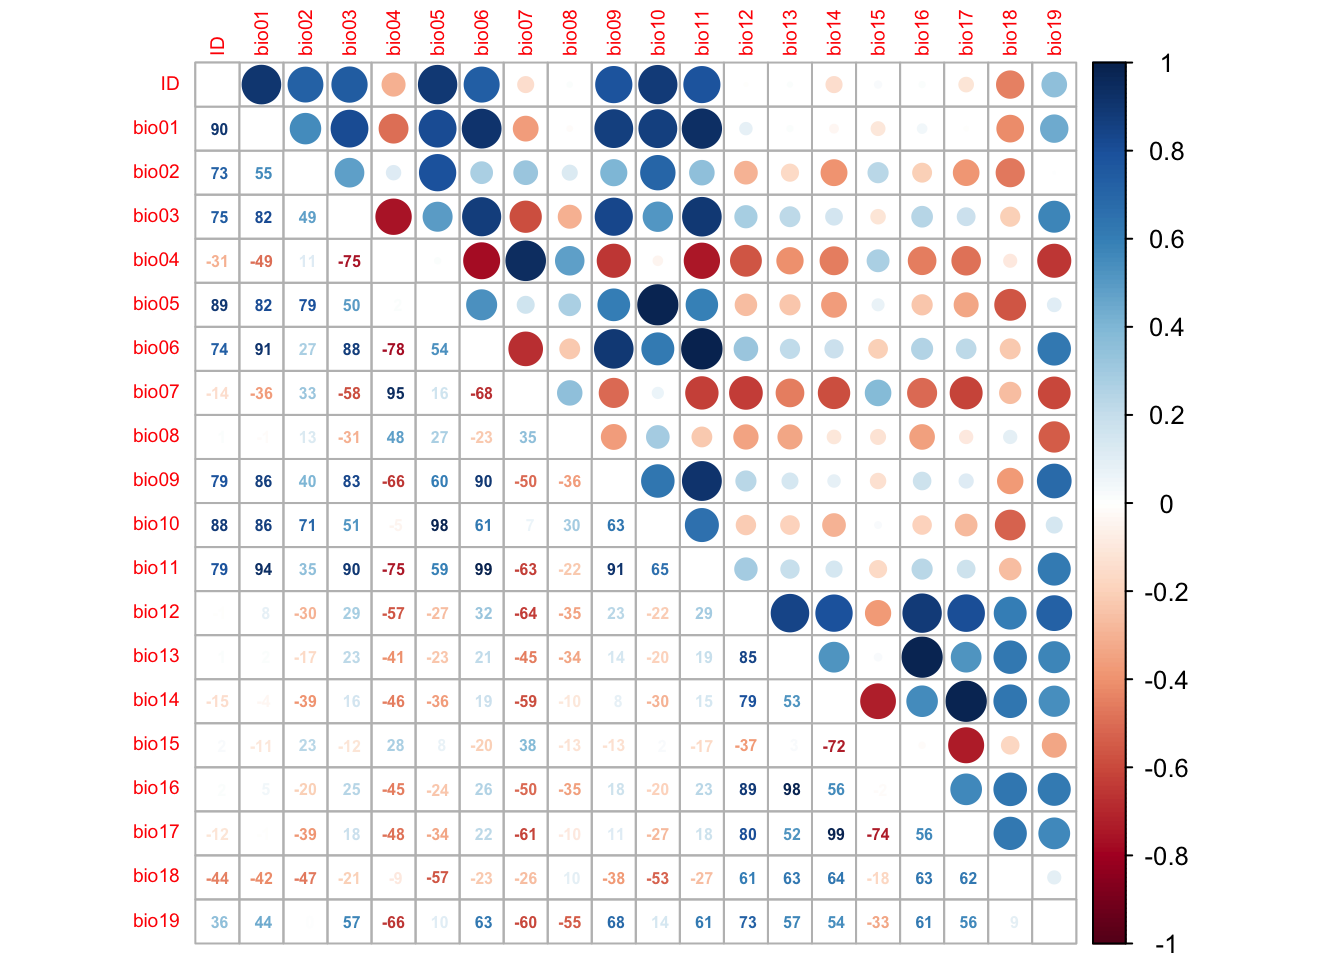
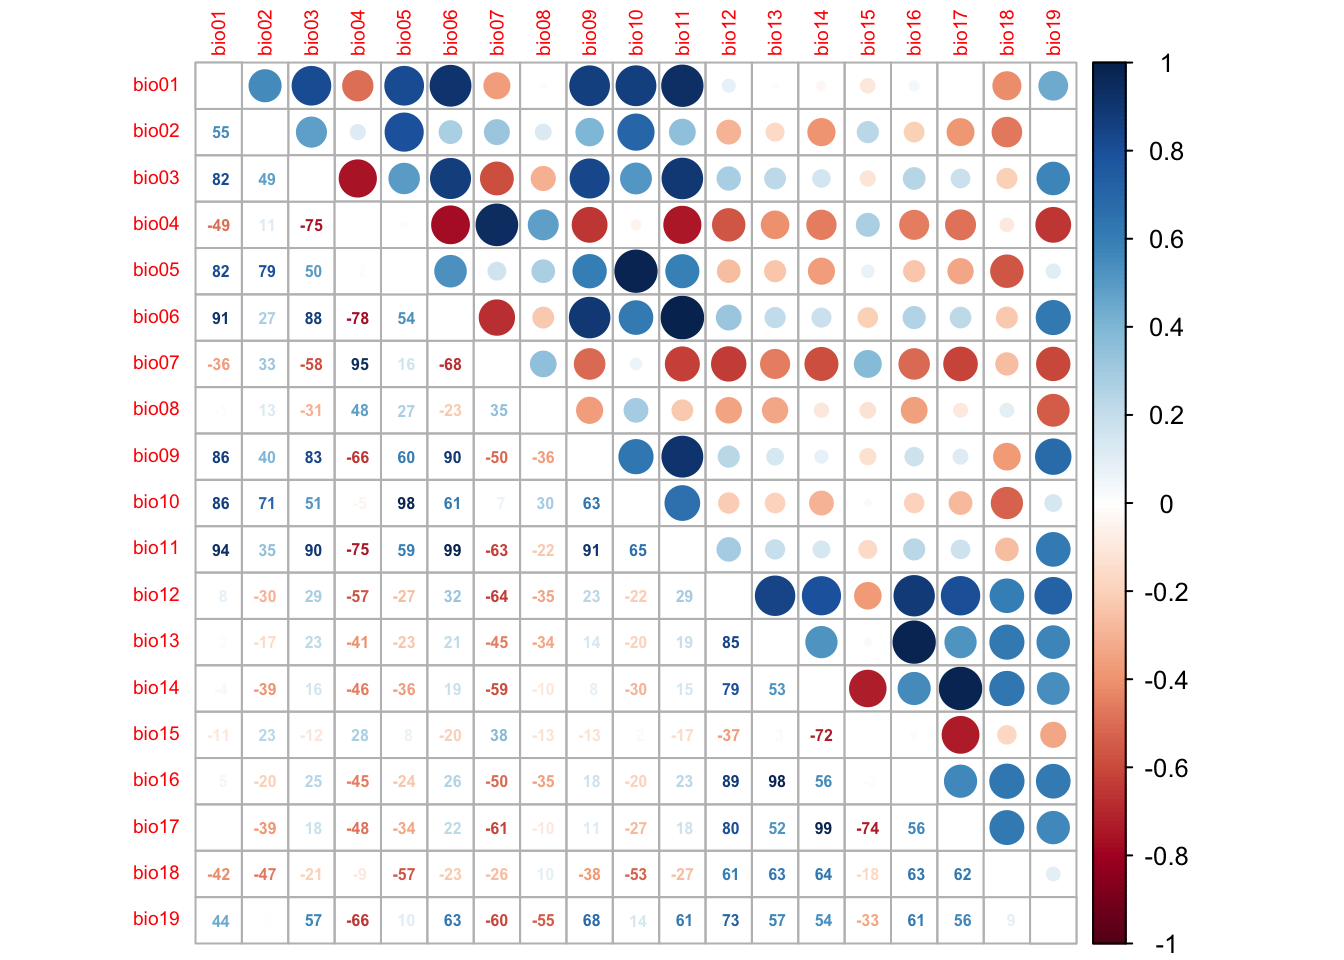
minor update

Changed region(s): [[0.0938, 0.0, 0.8125, 0.9688], [0.0938, 0.0625, 0.125, 0.0938]]

diff --git a/4_SDM_intro.html b/4_SDM_intro.html
@@ -923,7 +923,7 @@ correlations below |r|&lt;0.7 are considered unproblematic (or below
 # We first estimate a correlation matrix from the predictors. 
 # We use Spearman rank correlation coefficient, as we do not know 
 # whether all variables are normally distributed.
-cor_mat &lt;- cor(lynx_thinned[,-c(1:3)], method=&#39;spearman&#39;)
+cor_mat &lt;- cor(lynx_thinned[,-c(1:4)], method=&#39;spearman&#39;)
 
 # We can visualise this correlation matrix. For better visibility, 
 # we plot the correlation coefficients as percentages.
@@ -962,19 +962,19 @@ out the help pages for <code>?select07</code>.</p>
 <pre class="r"><code>library(mecofun)
 
 # Run select07()
-var_sel &lt;- select07(X=lynx_thinned[,-c(1:3)], 
+var_sel &lt;- select07(X=lynx_thinned[,-c(1:4)], 
                     y=lynx_thinned$occ, 
                     threshold=0.7)
 
 # Check out the structure of the resulting object:
 str(var_sel)</code></pre>
 <pre><code>## List of 3
-##  $ AIC     : Named num [1:20] 281 282 287 314 315 ...
-##   ..- attr(*, &quot;names&quot;)= chr [1:20] &quot;bio11&quot; &quot;bio06&quot; &quot;bio01&quot; &quot;bio03&quot; ...
-##  $ cor_mat : num [1:20, 1:20] 1 0.901 0.729 0.747 -0.309 ...
+##  $ AIC     : Named num [1:19] 281 282 287 314 324 ...
+##   ..- attr(*, &quot;names&quot;)= chr [1:19] &quot;bio11&quot; &quot;bio06&quot; &quot;bio01&quot; &quot;bio03&quot; ...
+##  $ cor_mat : num [1:19, 1:19] 1 0.554 0.815 -0.495 0.818 ...
 ##   ..- attr(*, &quot;dimnames&quot;)=List of 2
-##   .. ..$ : chr [1:20] &quot;ID&quot; &quot;bio01&quot; &quot;bio02&quot; &quot;bio03&quot; ...
-##   .. ..$ : chr [1:20] &quot;ID&quot; &quot;bio01&quot; &quot;bio02&quot; &quot;bio03&quot; ...
+##   .. ..$ : chr [1:19] &quot;bio01&quot; &quot;bio02&quot; &quot;bio03&quot; &quot;bio04&quot; ...
+##   .. ..$ : chr [1:19] &quot;bio01&quot; &quot;bio02&quot; &quot;bio03&quot; &quot;bio04&quot; ...
 ##  $ pred_sel: chr [1:8] &quot;bio11&quot; &quot;bio10&quot; &quot;bio07&quot; &quot;bio15&quot; ...</code></pre>
 <pre class="r"><code># We extract the names of the weakly correlated predictors ordered by the univariate variable importance in terms of AIC:
 pred_sel &lt;- var_sel$pred_sel</code></pre>
